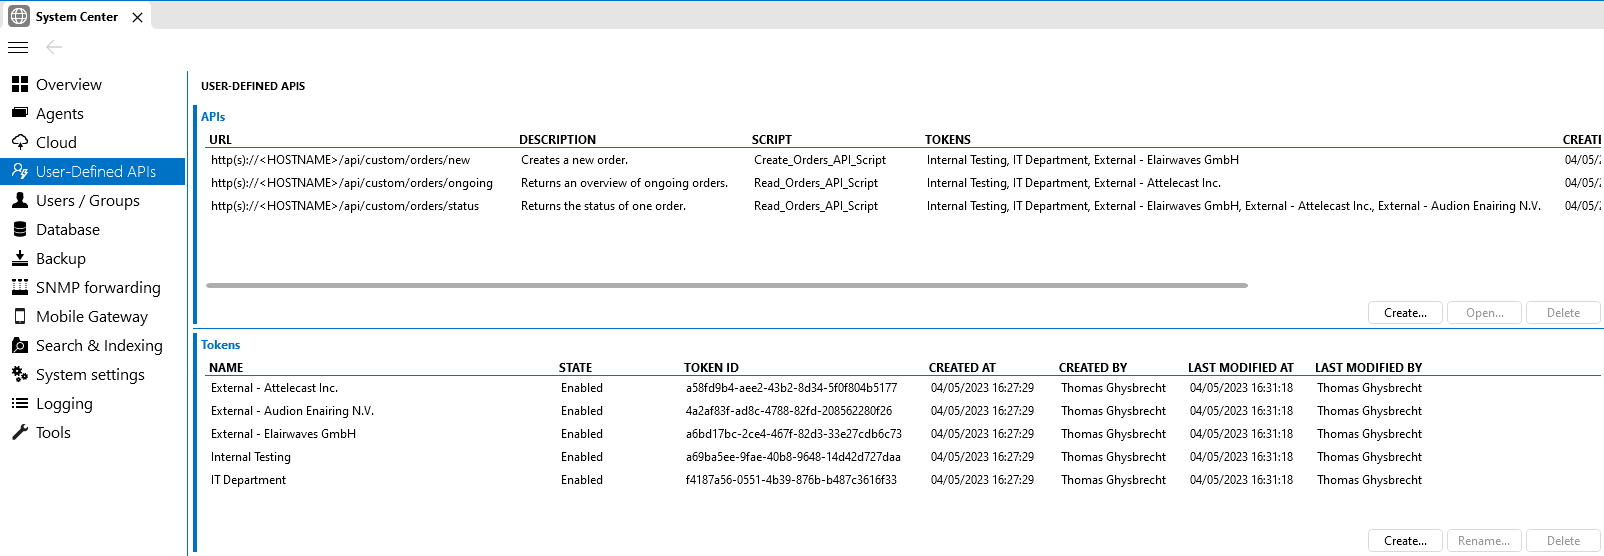
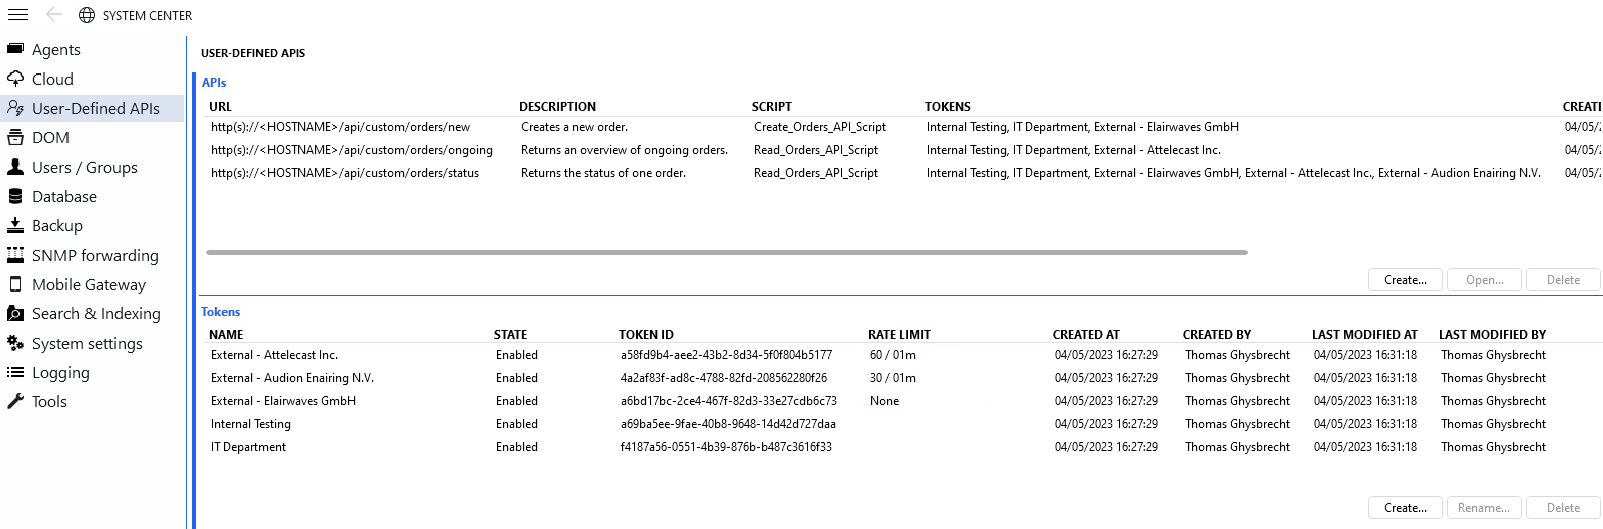
RN 45751

Changed region(s): [[0.0, 0.0, 1.0, 1.0], [0.8422, 0.9376, 1.0, 0.9981], [0.1248, 0.0907, 0.1871, 0.121]]

diff --git a/dataminer/Functions/User-Defined_APIs/UD_APIs_Viewing_in_Cube.md b/dataminer/Functions/User-Defined_APIs/UD_APIs_Viewing_in_Cube.md
@@ -14,7 +14,7 @@ uid: UD_APIs_Viewing_in_Cube
 1. Use the buttons below the table to create an API or token, or to edit or delete the selected API or token.
 
 ![API module in DataMiner Cube](~/dataminer/images/UDAPIS_Client_API_Module.png)<br>
-*User-Defined APIs page in DataMiner 10.3.6*
+*User-Defined APIs page in DataMiner 10.6.9*
 
 > [!NOTE]
 >
@@ -29,6 +29,53 @@ uid: UD_APIs_Viewing_in_Cube
 
 ![Enabling or disabling an API token in DataMiner Cube](~/dataminer/images/UDAPIS_DisableToken.png)<br>
 *Enabling or disabling an API token in DataMiner 10.3.6*
+
+## Configuring a rate limit for an API token
+
+From DataMiner 10.6.9/10.7.0 onwards<!--RN 45751-->, when creating or editing an API token, you can configure a rate limit for that token. The rate limit restricts the number of requests a client can make within a specified time window.
+
+### [Creating a new token](#tab/tabid-1)
+
+1. Go to *System Center* > *User-Defined APIs*.
+
+1. Under *Tokens*, select *Create* in the lower-right corner.
+
+   New tokens are created with a default rate limit of 60 requests per minute.
+
+1. If you want to change the default rate limit, configure the following settings:
+
+   - *Limit* (1): Maximum number of requests allowed within the configured window (from 1 to 100).
+
+   - Window (2): Sliding time window during which the limit applies (from 1 second to 1 day).
+
+   ![*Create API token* pop-up window](~/dataminer/images/Create_API_Token.png)<br>*Create API token window in DataMiner 10.6.9*
+
+1. Select *Generate token*.
+
+### [Editing an existing token](#tab/tabid-2)
+
+1. Go to *System Center* > *User-Defined APIs*.
+
+1. Right-click a token in the *Tokens* table and select *Edit*.
+
+1. Make sure the *Limit* checkbox is selected.
+
+   The default rate limit will be set to 60 requests per minute.
+
+1. If you want to change the default rate limit, configure the following settings:
+
+   - *Limit* (1): Maximum number of requests allowed within the configured window (from 1 to 100).
+
+   - Window (2): Sliding time window during which the limit applies (from 1 second to 1 day).
+
+   ![*Edit API token* pop-up window](~/dataminer/images/Edit_API_Token.png)<br>*Edit API token window in DataMiner 10.6.9*
+
+1. Select *Save and close*.
+
+***
+
+> [!NOTE]
+> A configured rate limit restricts the number of requests a client can make within a specified time window. However, it does not guarantee that the server can process all requests up to that limit. Actual throughput depends on several factors, including the execution time of the API script, the number of concurrently active tokens, and overall server load.
 
 ## Getting the API URL blueprint
 

diff --git a/dataminer/Functions/User-Defined_APIs/Defining_an_API/UD_APIs_Defining_a_new_API.md b/dataminer/Functions/User-Defined_APIs/Defining_an_API/UD_APIs_Defining_a_new_API.md
@@ -294,8 +294,20 @@ The headers listed below are **blocked** and will result in an error if you try 
 
 1. Under *Tokens*, select the tokens that need access. You can also create new tokens using the *New token* button.
 
+   From DataMiner 10.6.9/10.7.0 onwards<!--RN 45751-->, when creating or editing a token, you can configure a rate limit:
+
+   - *Limit* (1): Maximum number of requests allowed within the configured window (from 1 to 100).
+
+   - Window (2): Sliding time window during which the limit applies (from 1 second to 1 day).
+
+   ![*Create API token* pop-up window](~/dataminer/images/Create_API_Token.png)<br>*Create API token window in DataMiner 10.6.9*
+
+   New tokens are created with a default rate limit of 60 requests per minute.
+
    > [!NOTE]
-   > At least one token has to be linked before the API will be usable.
+   >
+   > - At least one token has to be linked before the API will be usable.
+   > - A configured rate limit restricts the number of requests a client can make within a specified time window. However, it does not guarantee that the server can process all requests up to that limit. Actual throughput depends on several factors, including the execution time of the API script, the number of concurrently active tokens, and overall server load.
 
    > [!CAUTION]
    > Once a token is created with a specified secret, **it is not possible to retrieve that secret again**. The value is stored securely in the database with a non-reversible hashing function. Make sure to save it somewhere secure or pass it in a secure way to the API user.

diff --git a/dataminer/Functions/User-Defined_APIs/Defining_an_API/Objects/UD_APIs_ApiToken.md b/dataminer/Functions/User-Defined_APIs/Defining_an_API/Objects/UD_APIs_ApiToken.md
@@ -64,7 +64,7 @@ A rate limit consists of the following properties:
 | Window   | TimeSpan | The time span during which the configured number of requests are allowed. Supported range: 1 second to 1 day. |
 
 > [!IMPORTANT]
-> Currently, rate limits cannot be configured in the UI and must be configured via the C# API. If an API token with a configured rate limit is updated through the UI, the rate limit will be cleared.
+> From DataMiner 10.6.9/10.7.0 onwards<!--RN 45751-->, rate limits can be viewed and configured directly in *System Center* > *User-Defined APIs* when creating or editing a token. See [Configuring a rate limit for an API token](xref:UD_APIs_Viewing_in_Cube#configuring-a-rate-limit-for-an-api-token). Prior to these versions, rate limits cannot be configured in the UI and must be configured via the C# API. If an API token with a configured rate limit is updated through the UI, the rate limit will be cleared.
 
 #### Behavior when the limit is exceeded
 
